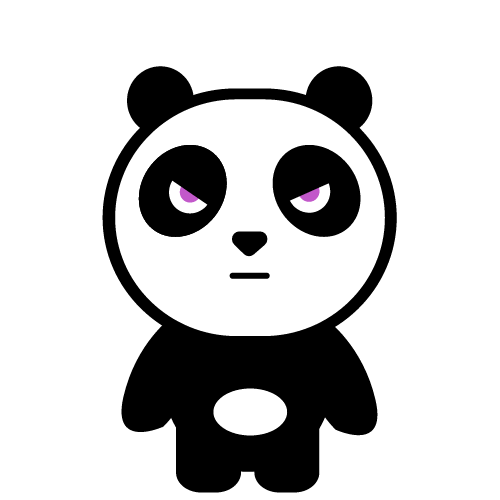
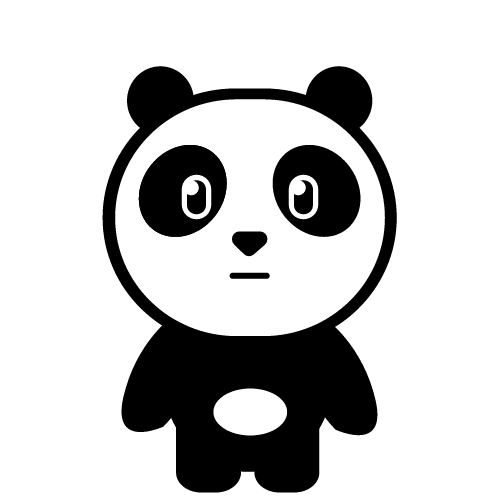
change name eyes files

Changed region(s): [[0.33, 0.33, 0.45, 0.45], [0.57, 0.33, 0.66, 0.45]]

diff --git a/components/Avatar/AvatarCustomizer.tsx b/components/Avatar/AvatarCustomizer.tsx
@@ -71,10 +71,10 @@ const categoryOptions: Record<string, Option[]> = {
         { id: "12", source: require("../../assets/avatar/hat/hat11.png"), value: 11 },
     ],
     eyes: [
-        { id: "1", source: "", value: 0 },
-        { id: "2", source: require("../../assets/avatar/eyes/eyes_00.png"), value: 1 },
-        { id: "3", source: require("../../assets/avatar/eyes/eyes_01.png"), value: 2 },
-        { id: "4", source: require("../../assets/avatar/eyes/eyes_02.png"), value: 3 },
+        { id: "1", source: require("../../assets/avatar/eyes/eyes_00.png"), value: 0 },
+        { id: "2", source: require("../../assets/avatar/eyes/eyes_01.png"), value: 1 },
+        { id: "3", source: require("../../assets/avatar/eyes/eyes_02.png"), value: 2 },
+        { id: "4", source: require("../../assets/avatar/eyes/eyes_03.png"), value: 3 },
         { id: "5", source: require("../../assets/avatar/eyes/eyes_03.png"), value: 4 },
         { id: "6", source: require("../../assets/avatar/eyes/eyes_04.png"), value: 5 },
         { id: "7", source: require("../../assets/avatar/eyes/eyes_05.png"), value: 6 },
